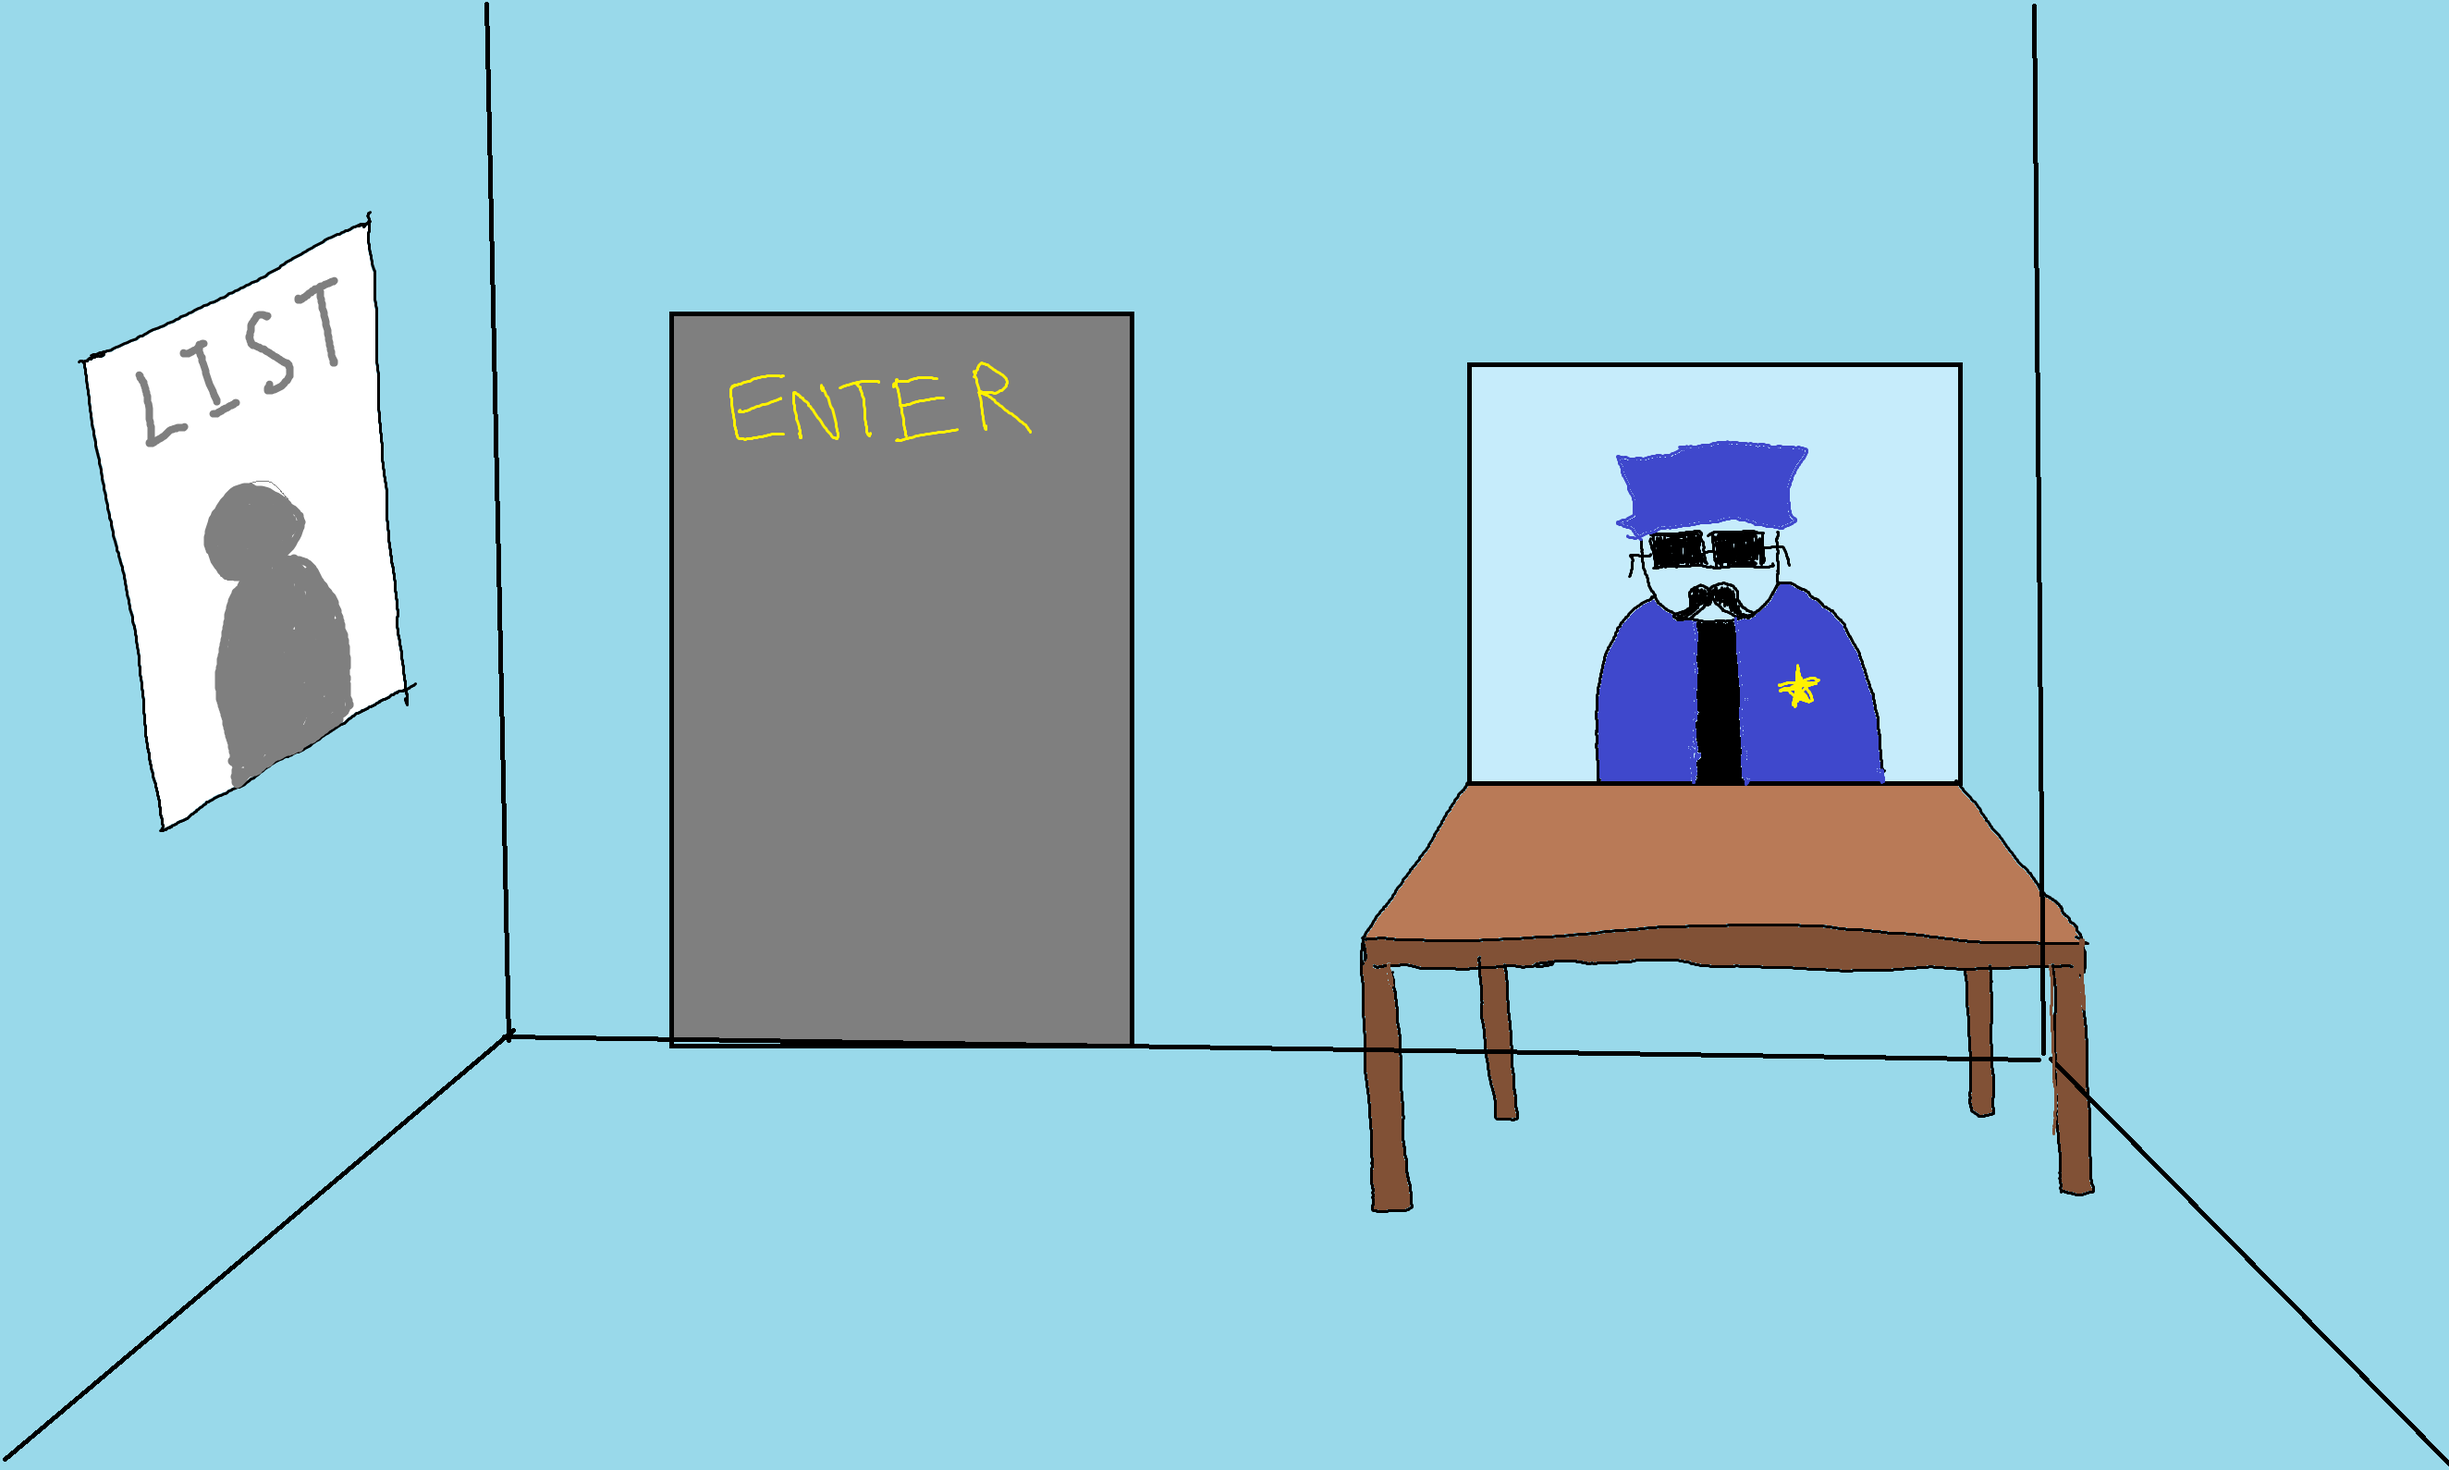
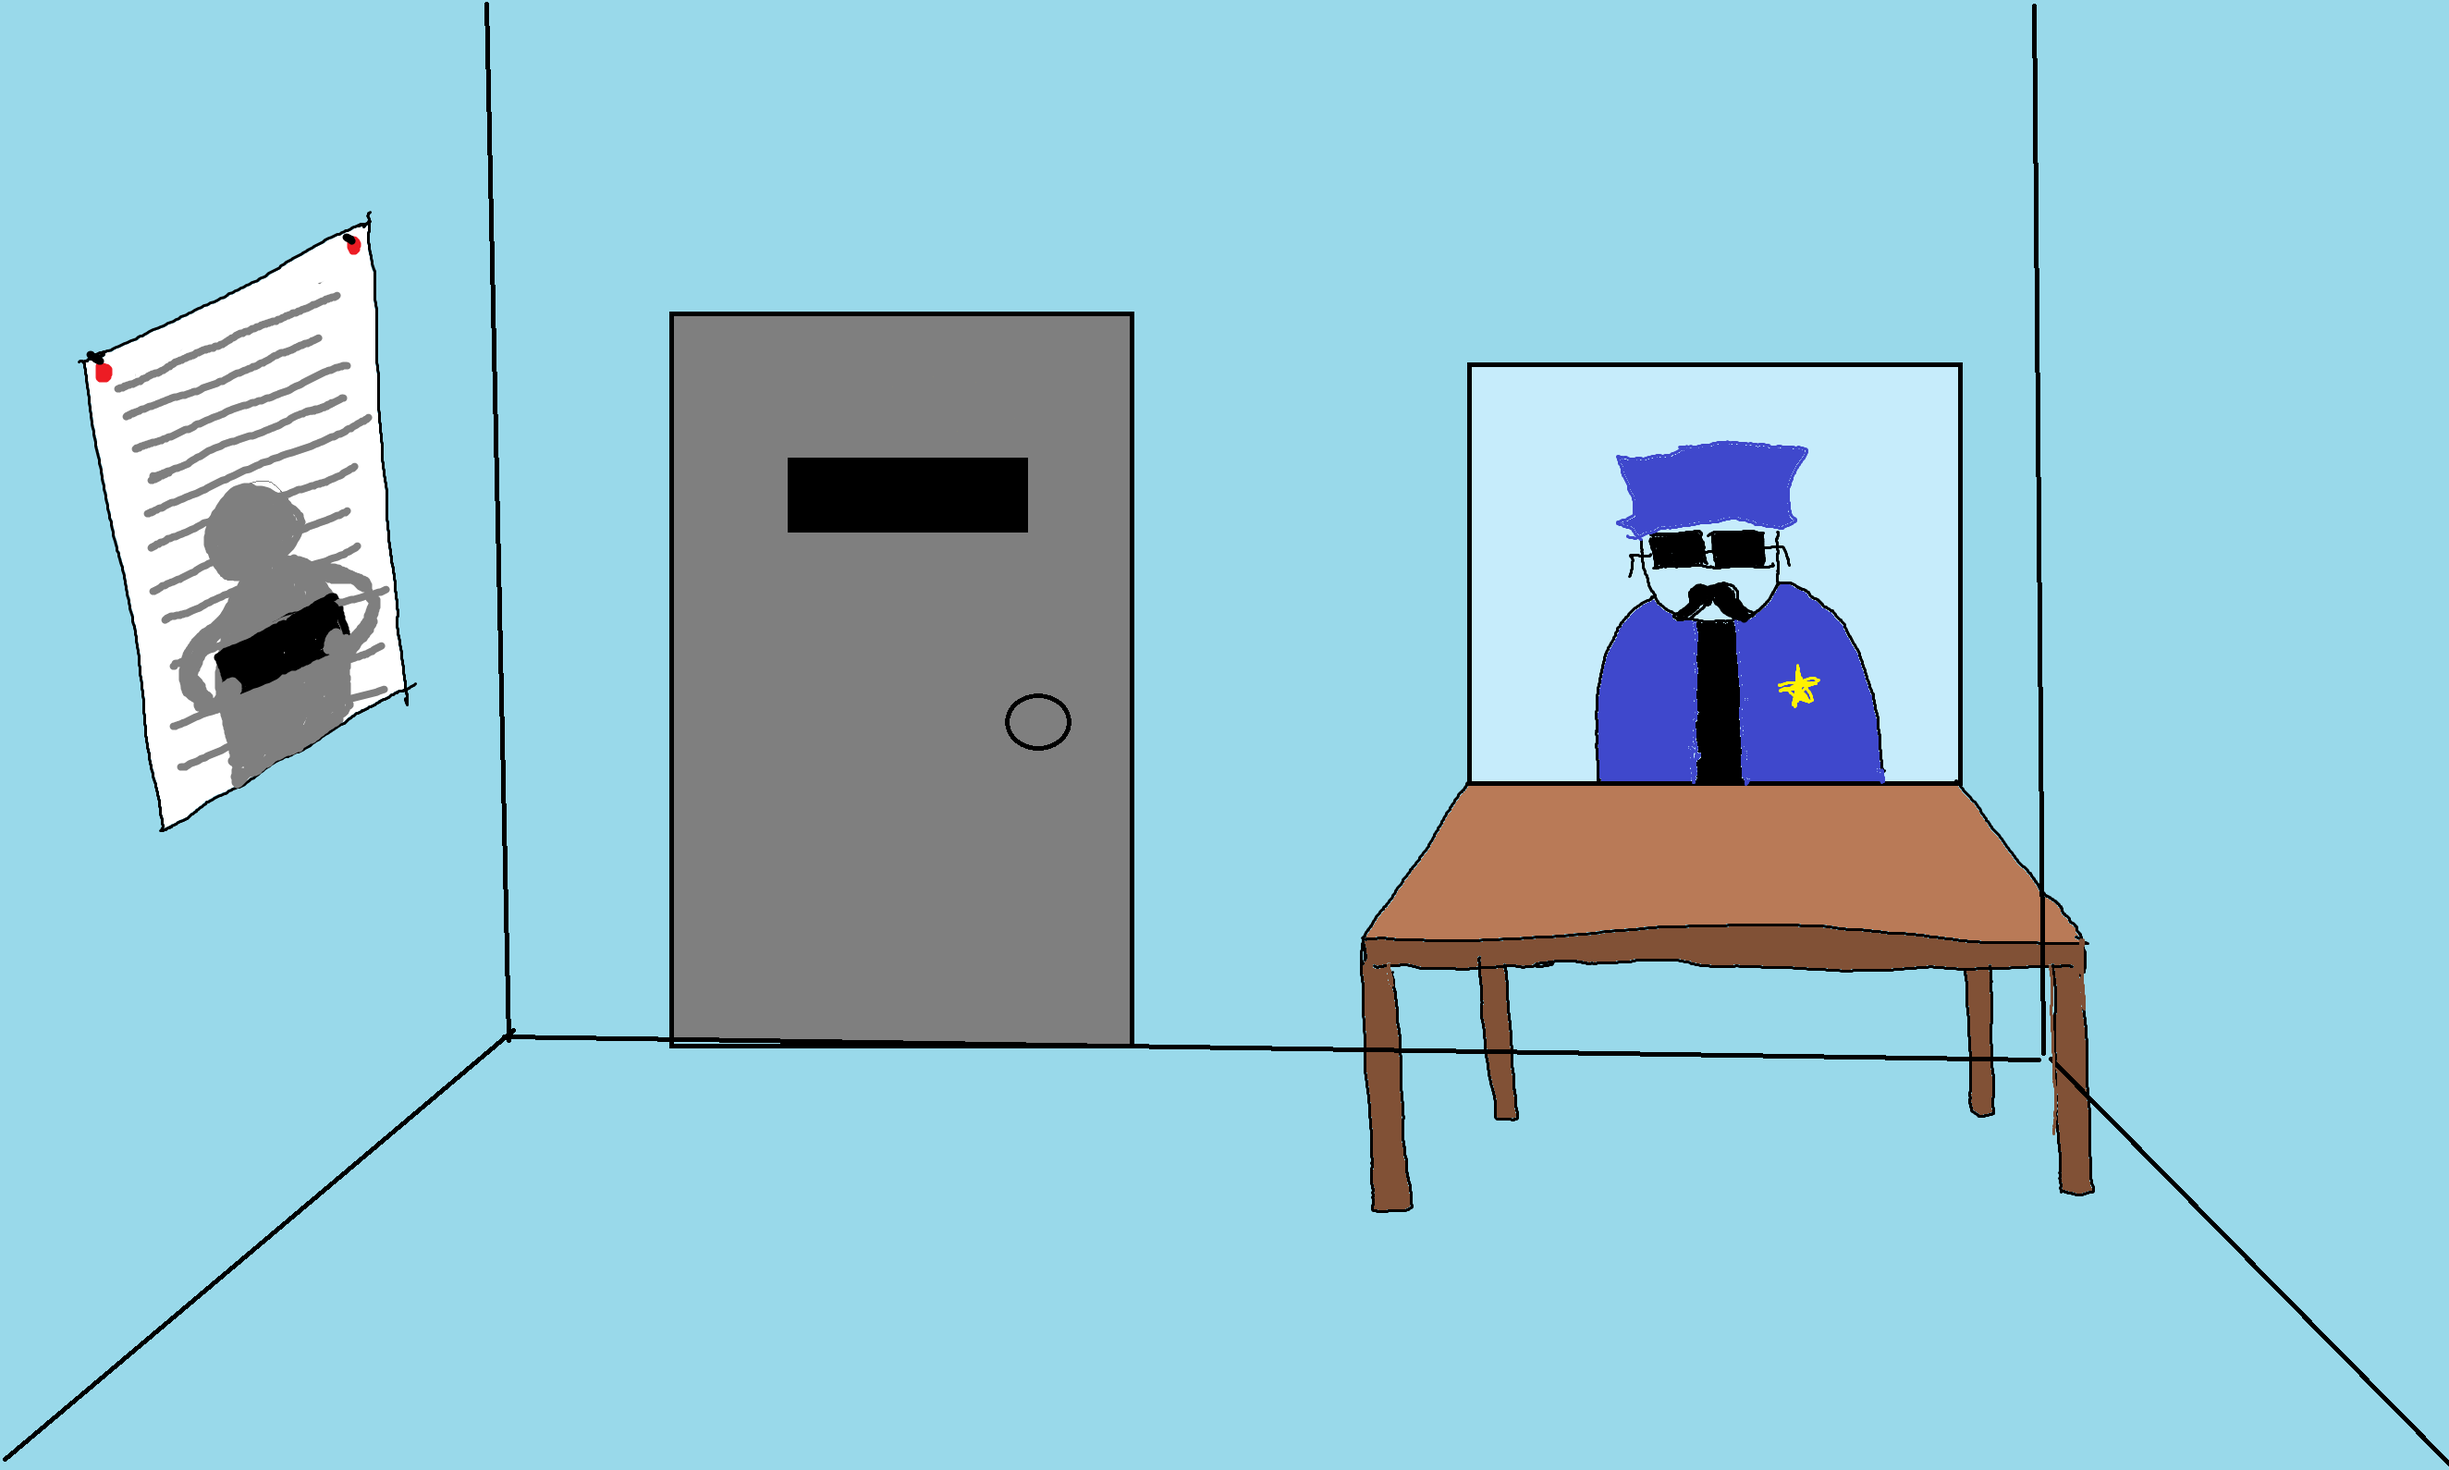
added slanted list button

Changed region(s): [[0.031, 0.1849, 0.1548, 0.5239], [0.3096, 0.3082, 0.4334, 0.3698], [0.3096, 0.2465, 0.4024, 0.2774]]

diff --git a/public/stylesheets/main.css b/public/stylesheets/main.css
@@ -6,9 +6,65 @@ html {
   background-size: cover;
 }
 
-/* body {
-  background-image: url("/mainbg.png");
-  background-repeat: no-repeat;
-  background-size: 1850px 1000px;
+#title {
+  text-align: center;
+  border-color: black;
+  border-style: solid;
+  width: 60%;
+  margin-right: auto;
+  margin-left: auto;
+  background-color: rgb(163, 156, 156);
+  border-radius: 30px;
+}
 
+#div_container {
+  border-color: black;
+  border-style: solid;
+  background-color: blue;
+  border-radius: 30px;
+  width: 70%;
+  margin-right: auto;
+  margin-left: auto;
+}
+
+#list_button {
+  position: absolute;
+  top: 55%;
+  left: 2%;
+  height: 30px;
+  transform: skewY(-30deg);
+  border-style: solid;
+  border-radius: 20px;
+  border-color: green;
+  border-width: 3px;
+}
+
+/* .btn {
+  color: #fff;
+  background: #0079c1;
+  font-weight: 700;
+  text-align: center;
+  text-decoration: none;
+  border: 0;
+  outline: 0;
+  font-size: 1.1rem;
+  padding: 12px 35px;
+  display: inline-block;
+  transform: skew(-21deg);
+}
+
+.btn :hover{
+  background: #0069a8;
+}
+
+.btn > span{
+  display: inline-block; 
+  transform: skew(21deg);
+}
+
+.each {
+  position: absolute;
+  top: 50%;
+  left: 50%;
+  transform: translate(-50%, -50%);
 } */
